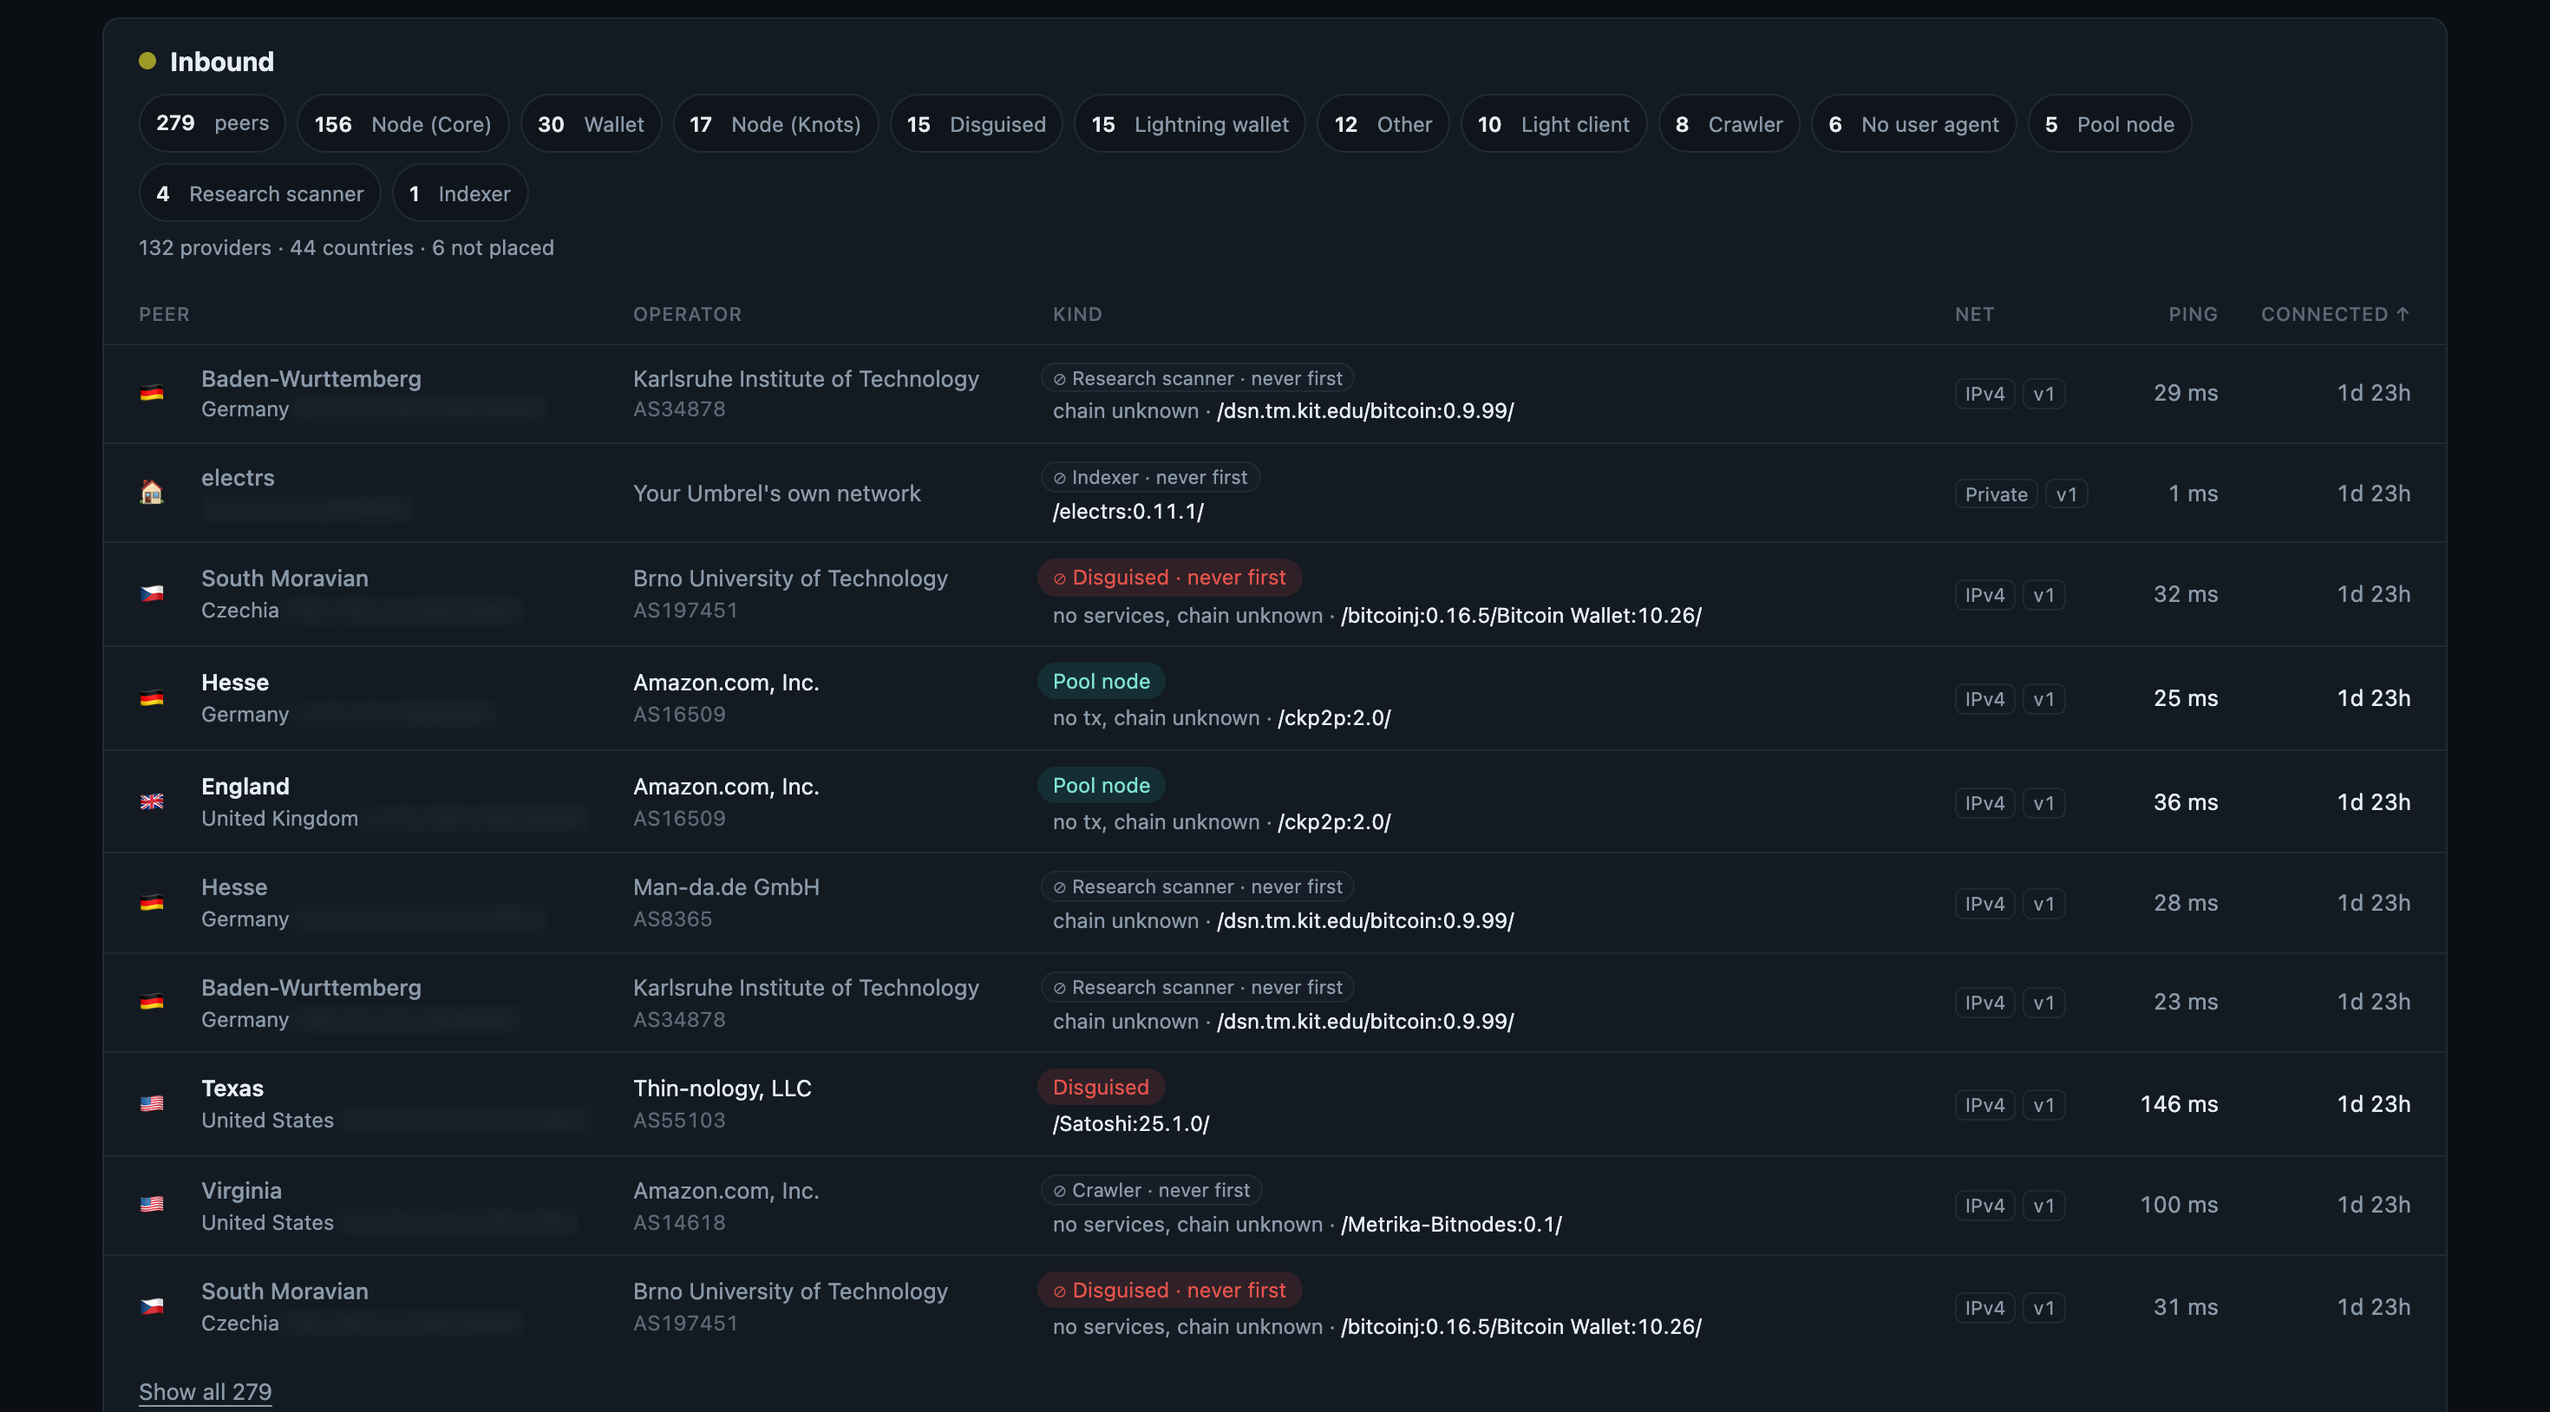
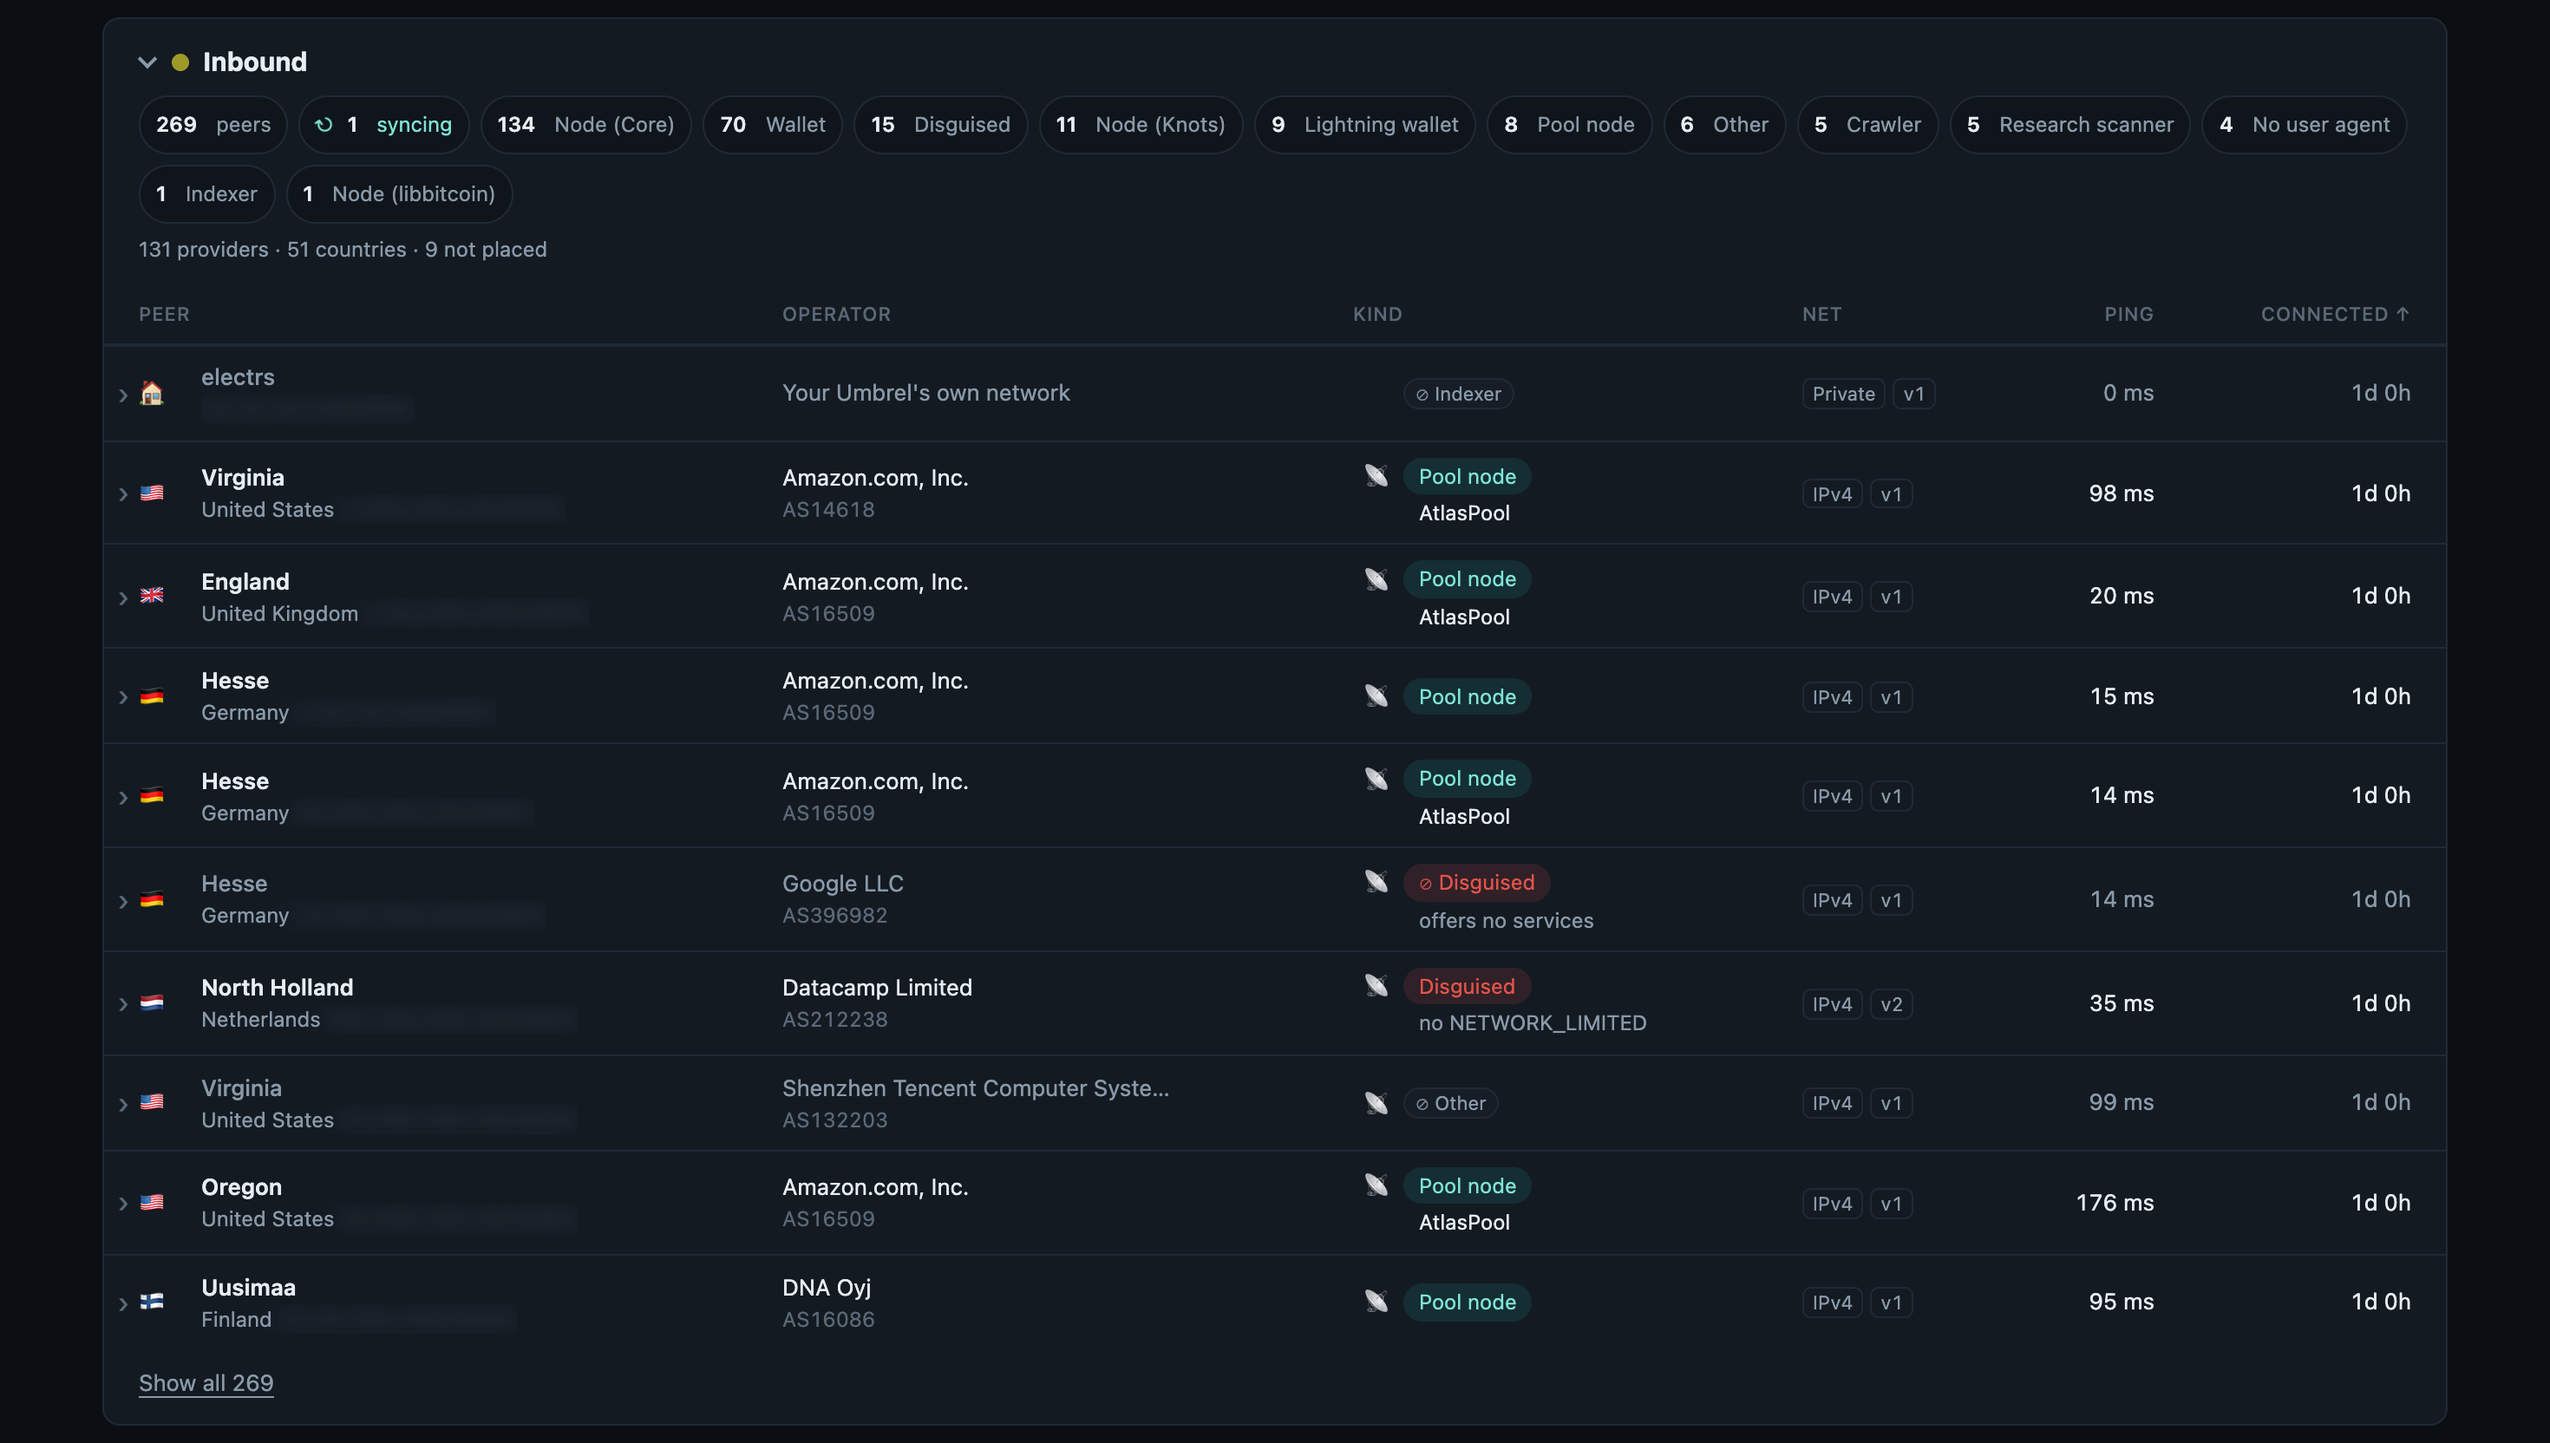
Screenshots of 31 October; precise rotation and timeline wording

diff --git a/README.md b/README.md
@@ -25,7 +25,7 @@ Your node talks to strangers all day. Each one says what software it runs, but i
 
 ## Better together
 
-With both installed, Peer Map follows every new block across your node: which pool mined it, which of your peers brought it first and, if Stratum Race watches your own pool, how long each step to your mining job took. Change your setup and you see whether it gets faster.
+With both installed, Peer Map follows every new block across your node: which pool mined it, which of your peers brought it first and, if Stratum Race watches your own pool, roughly how long it took to reach your mining job. Change your setup and you see whether it gets faster.
 
 ## No open port?
 

diff --git a/RELEASING.md b/RELEASING.md
@@ -187,7 +187,7 @@ Peer Map picture in this repository's `README.md`, and
 `bitcoinlab-peermap/overview.png` (the top of the page, 2940 × 4400) heads the
 Peer Map README. All four come from one capture.
 
-The pictures of 25 October 2026 (Bitcoin Lab 2.0.5 and Peer Map 2.0.4, both at block 973,087) were captured from the real
+The pictures of 31 October 2026 (Bitcoin Lab 2.1.1 and Peer Map 2.3.0, both at block 974,001) were captured from the real
 dashboards with Playwright (1470 CSS px wide at 2×, dark mode; only the addresses
 themselves replaced and blurred before the capture, so location and operator stay
 readable) and cut with `ffmpeg`.
